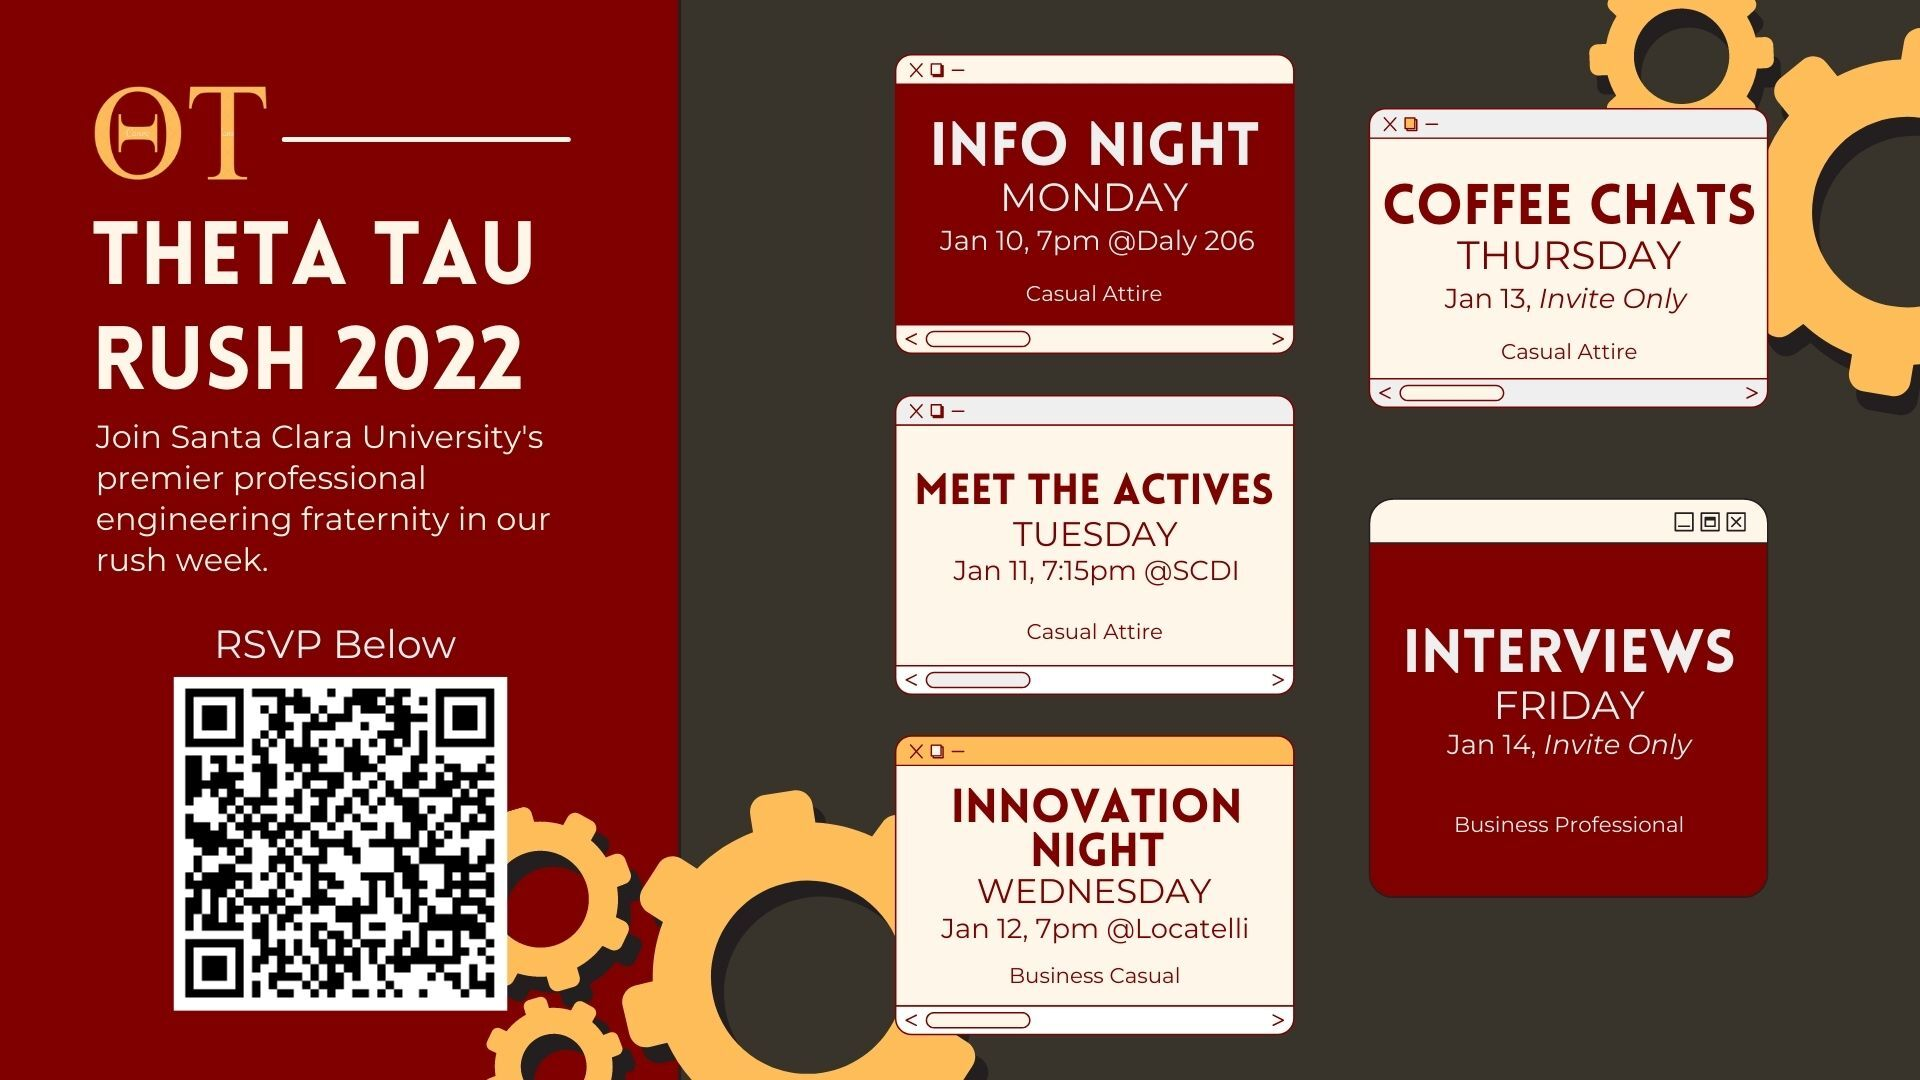
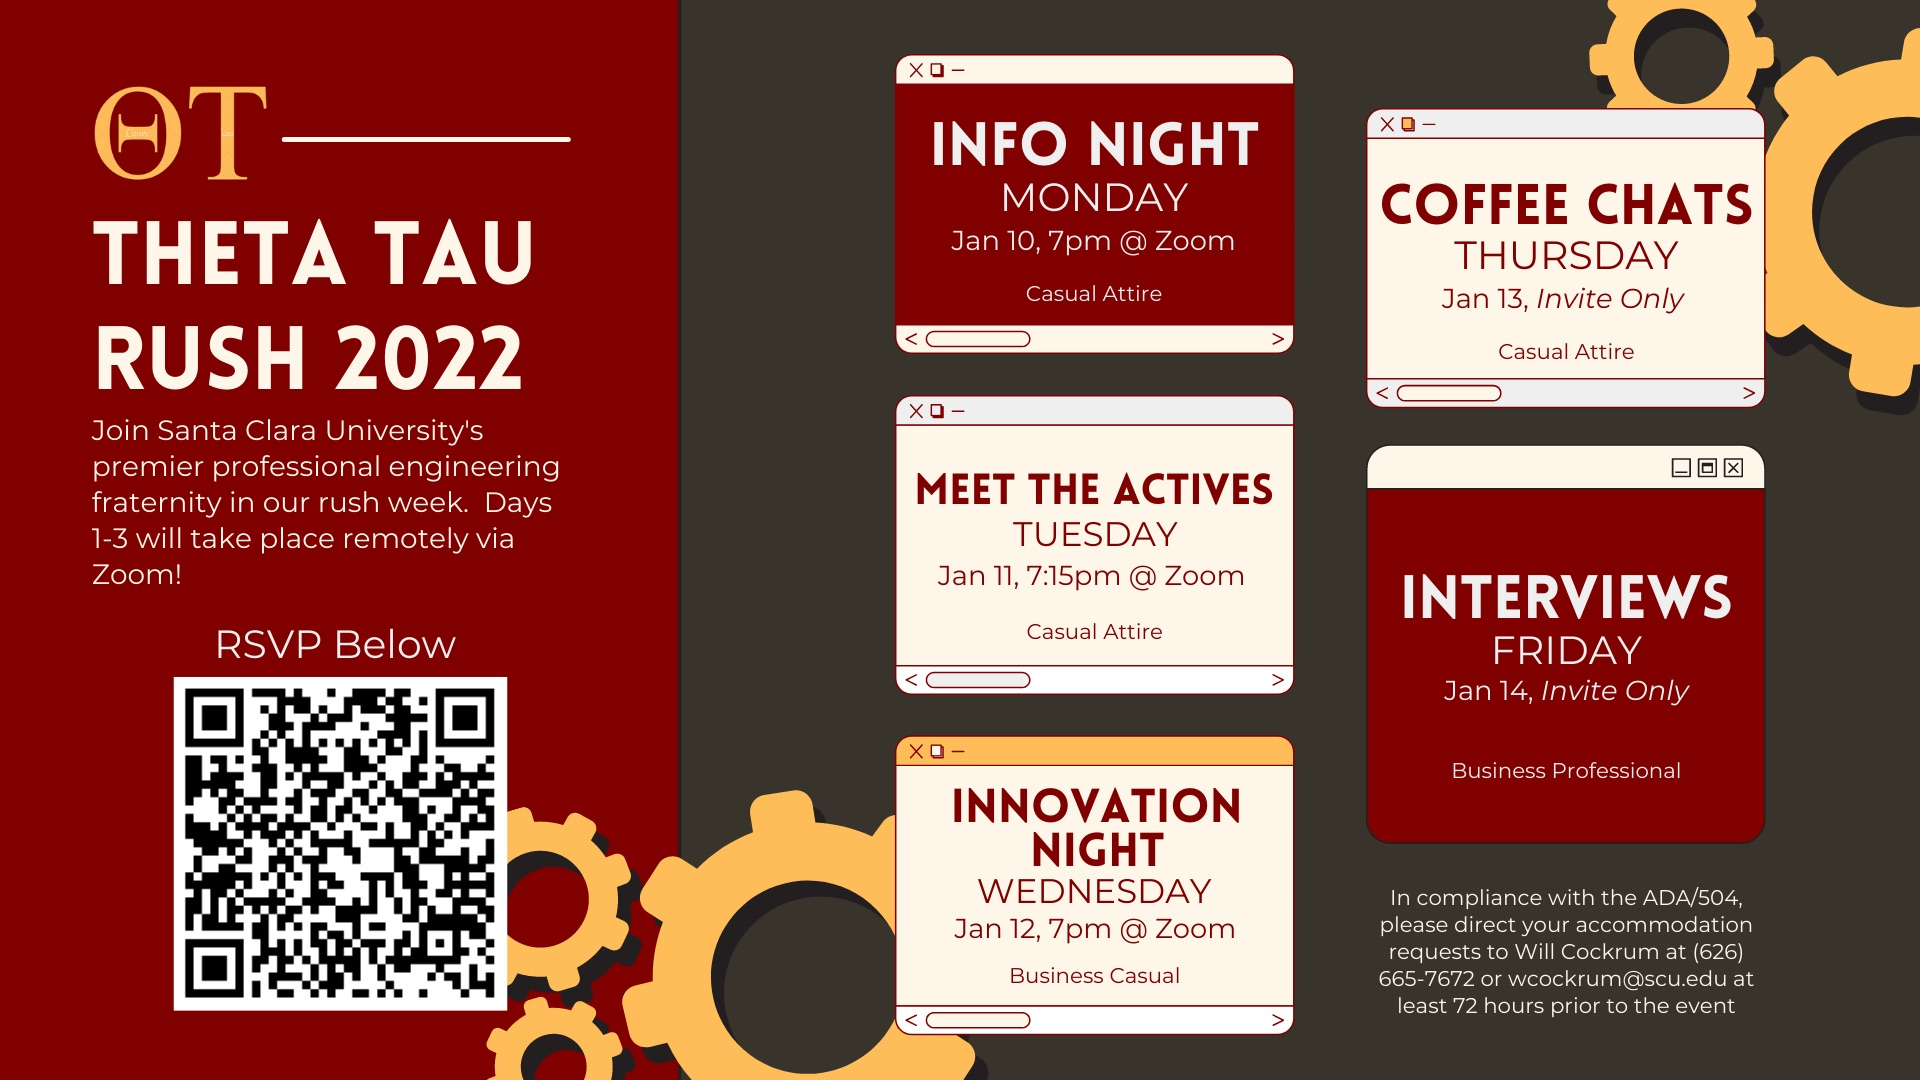
Updated Rush 2022 Flyer

diff --git a/rush.html b/rush.html
@@ -78,7 +78,7 @@
             <div class="container">
               <h2 style="color:#AB1313;font-size:30px; margin-top:-60px;" class="font-alt">Winter Rush 2022 Schedule</h2>
               <!--<p class="font-gen" style="font-size:20px;">Our Winter 2022 rush will be week 2 of Winter quarter, 1/10/22 - 1/14/22. We are so excited to see you then.</p>-->
-              <img src="assets/images/RushFlyer2022-2.jpg"/>
+              <img src="assets/images/RushFlyer2022.jpg"/>
             
             </div>
             </section>
